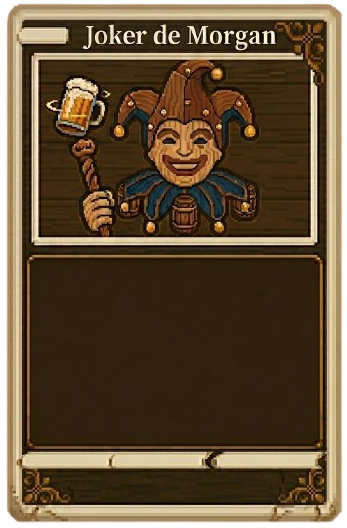
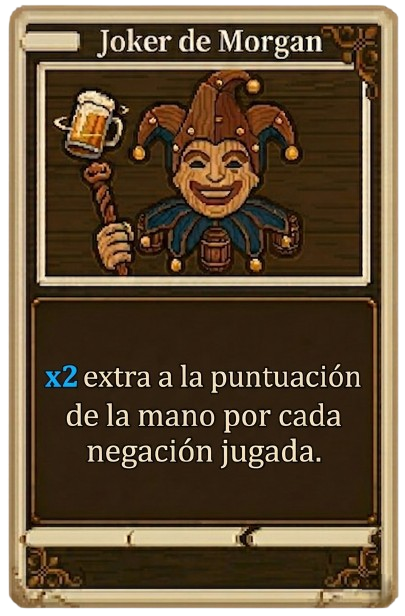
ajustes

diff --git a/src/main/java/com/mijuego/screens/GameplayScreen.java b/src/main/java/com/mijuego/screens/GameplayScreen.java
@@ -372,7 +372,10 @@ public class GameplayScreen extends ScreenAdapter {
 
         labelEstadoPantalla.setText("¡OBJETIVO ALCANZADO!");
         labelEstadoPantalla.getStyle().fontColor = Color.GOLD;
-        labelEstadoPantalla.setPosition((1360f / 2f) - (labelEstadoPantalla.getPrefWidth() / 2f), 420f);
+
+        // MODIFICACIÓN: Desplazado +230 píxeles a la derecha (los 80 previos + 150 solicitados)
+        float xDesplazadoVictoria = ((1280f / 2f) - (labelEstadoPantalla.getPrefWidth() / 2f)) + 230f;
+        labelEstadoPantalla.setPosition(xDesplazadoVictoria, 420f);
         labelEstadoPantalla.setVisible(true);
 
         botonContinuar.setVisible(true);
@@ -386,7 +389,7 @@ public class GameplayScreen extends ScreenAdapter {
         labelEstadoPantalla.setText("JUEGO TERMINADO");
         labelEstadoPantalla.getStyle().fontColor = Color.RED;
 
-        // Centrado horizontal original desplazado 160 píxeles a la derecha
+        // Centrado horizontal original de derrota desplazado 160 píxeles a la derecha
         float xDesplazado = ((1280f / 2f) - (labelEstadoPantalla.getPrefWidth() / 2f)) + 160f;
         labelEstadoPantalla.setPosition(xDesplazado, 420f);
         labelEstadoPantalla.setVisible(true);